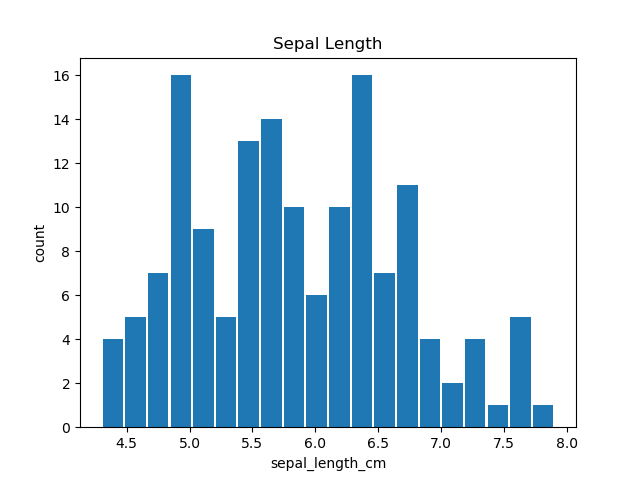
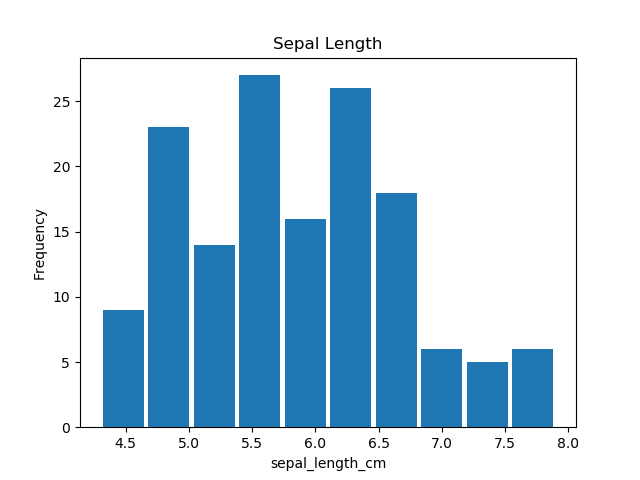
readme development and slight code alterations

diff --git a/analysis.py b/analysis.py
@@ -25,7 +25,7 @@ iris_data.columns = ['sepal_length', 'sepal_width', 'petal_length', 'petal_width
 
 
 
-
+'''
 # A. Output a summary of each variable to a single txt file.
 
 # Isolate columns according to data type
@@ -61,9 +61,9 @@ with open("iris_summary.txt", "w") as f:
     f.write("=" * len(heading) + "\n\n")
     f.write(float_summary.to_string() + "\n\n")
     f.write(str_summary.to_string())
-
-
 '''
+
+
 # B. Save a histogram of each variable to png files
 
 
@@ -83,7 +83,7 @@ def var_hist(var_data, fig_num, x_label, y_label, title, filepath):
     plt.xlabel(x_label)
     plt.ylabel(y_label)
     plt.title(title)
-    plt.hist(var_data, bins=20, rwidth=0.9,)
+    plt.hist(var_data, bins=None, rwidth=0.9,)
     plt.savefig(filepath)
     plt.close()
 
@@ -98,14 +98,14 @@ def var_hist2(var_data, fig_num, x_label, y_label, title, filepath):
     plt.close()
 
 # Call function for each variable
-var_hist(sep_len, 1, 'sepal_length_cm', 'count', 'Sepal Length', 'sepal_length.png')
-var_hist(sep_width, 2, 'sepal_width_cm', 'count', 'Sepal Width', 'sepal_width.png')
-var_hist(pet_len, 3, 'petal_length_cm', 'count', 'Petal Length', 'petal_length.png')
-var_hist(pet_width, 4, 'petal_width_cm', 'count', 'Petal Width', 'petal_width.png')
-var_hist2(species, 5, 'species', 'count', 'Iris Species', 'species.png')
+var_hist(sep_len, 1, 'sepal_length_cm', 'Frequency', 'Sepal Length', 'sepal_length.png')
+var_hist(sep_width, 2, 'sepal_width_cm', 'Frequency', 'Sepal Width', 'sepal_width.png')
+var_hist(pet_len, 3, 'petal_length_cm', 'Frequency', 'Petal Length', 'petal_length.png')
+var_hist(pet_width, 4, 'petal_width_cm', 'Frequency', 'Petal Width', 'petal_width.png')
+var_hist2(species, 5, 'species', 'Frequency', 'Iris Species', 'species.png')
 
 
-
+'''
 # C. Output a scatter plot of each pair of variables
 
 

diff --git a/README.md b/README.md
@@ -151,6 +151,10 @@ min        4.300000     2.000000      1.000000     0.100000
 max        7.900000     4.400000      6.900000     2.500000 
 ```
 
+* From this table we can deduce that the sepal is larger in size than the petal on average.
+When comparing the length and width of the sepal and petal, we observe a symmetry with regard
+to the stadard deviation - lower for the sepal, higher for the petal. More detailed exploration 
+below will further enlighten us.
 
 * For the dependent variable summary, I used `describe()` once more. A number of additional steps
 were needed to output the information in the same tabular format as above (see analysis.py above). 
@@ -164,10 +168,16 @@ Species_B  Iris-versicolor    50
 Species_C   Iris-virginica    50
 ```
 
+* This output was further formatted and written to a txt file. (see **iris_summary.txt** above)
 
+## Histogram
 
+* Histograms are a useful way to visualise and assess the probability distribution of a data sample. **(REF)**
+Python offers a number of different options to generate a histogram, from pure python to third party libraries
+such as NumPy, Seaborn and Pandas. For this project, I decided to use Matplotlib. The `hist()` function is
+simple to use, needing only one line of code to output a graphical representation. 
 
-
+* 
 
 
 
